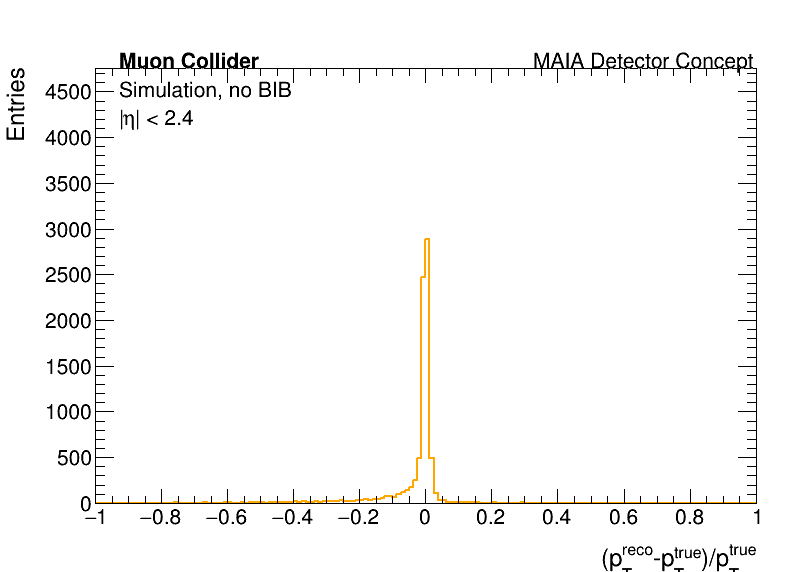
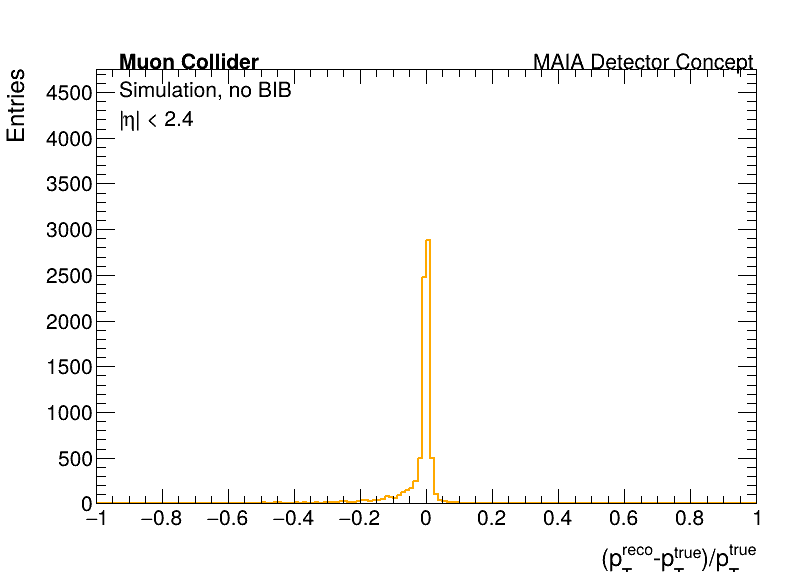
studying new electron ID

diff --git a/mucolstudies/analyze_electrons.py b/mucolstudies/analyze_electrons.py
@@ -1,0 +1,232 @@
+import os, math, glob
+import ROOT, pyLCIO
+from pyLCIO import IOIMPL
+from array import array
+
+ROOT.gROOT.SetBatch(True)
+exec(open("plotHelper.py").read())
+
+# ------------------
+# Config
+# ------------------
+B_FIELD    = 5.0
+MAX_EVENTS = -1
+MIN_E_GEV  = 10.0
+DR_CUT     = 0.2
+
+files = {
+    "v5_electronGun": ["/data/fmeloni/DataMuC_MAIA_v0/v5/reco/electronGun_pT_0_50/*.slcio"
+        ]
+}
+
+
+OUTDIR = "mucolstudies/recoPlots/v5"
+os.makedirs(OUTDIR, exist_ok=True)
+
+# ------------------
+# Utilities
+# ------------------
+def expand_file_list(patterns):
+    out = []
+    for p in patterns:
+        out += sorted(glob.glob(p))
+    return out
+
+def dphi(phi1, phi2):
+    d = phi1 - phi2
+    while d >  math.pi: d -= 2*math.pi
+    while d < -math.pi: d += 2*math.pi
+    return d
+
+def deltaR(t1, t2):
+    return math.sqrt((t1.Eta()-t2.Eta())**2 + dphi(t1.Phi(), t2.Phi())**2)
+
+def makeTrackTLV(trk, m=0.000511):
+    if trk.getOmega() == 0:
+        return None
+    pt = 3e-4 * abs(B_FIELD / trk.getOmega())
+    px = pt * math.cos(trk.getPhi())
+    py = pt * math.sin(trk.getPhi())
+    pz = pt * trk.getTanLambda()
+    p  = math.sqrt(px*px + py*py + pz*pz)
+    E  = math.sqrt(p*p + m*m)
+    tlv = ROOT.TLorentzVector()
+    tlv.SetPxPyPzE(px, py, pz, E)
+    return tlv
+
+def find_closest(tlv, cands):
+    best, best_dr = None, 1e9
+    for c in cands:
+        dr = deltaR(tlv, c)
+        if dr < best_dr:
+            best, best_dr = c, dr
+    return best if best_dr < DR_CUT else None
+
+def makeMCTLV(mcp, m=0.000511):
+    p3 = mcp.getMomentum()
+    px = float(p3[0])
+    py = float(p3[1])
+    pz = float(p3[2])
+    p  = math.sqrt(px*px + py*py + pz*pz)
+    E  = math.sqrt(p*p + m*m)
+    tlv = ROOT.TLorentzVector()
+    tlv.SetPxPyPzE(px, py, pz, E)
+    return tlv
+
+def pick_truth_electron(mcps):
+    best, best_pt = None, -1
+    for mcp in mcps:
+        if abs(int(mcp.getPDG())) != 11:
+            continue
+        tlv = makeMCTLV(mcp)
+        if tlv.Pt() > best_pt:
+            best, best_pt = tlv, tlv.Pt()
+    return best
+
+# ------------------
+# Histograms
+# ------------------
+hists = {}
+
+# pT bins capped at 50 GeV
+pt_bins = array("d", [0, 10, 20, 30, 40, 50])
+nb_pt = len(pt_bins) - 1
+
+# eta bins
+eta_bins = array("d", [-2.4, -1.6, -0.8, 0.0, 0.8, 1.6, 2.4])
+nb_eta = len(eta_bins) - 1
+
+for s in files:
+    hists[s] = {}
+
+    # Resolution / validation
+    hists[s]["E_over_p"] = ROOT.TH1F(f"{s}_E_over_p", "", 80, 0, 2.0)
+    hists[s]["pt_reco_over_true"] = ROOT.TH1F(f"{s}_pt_reco_over_true", "", 120, 0, 2.0)
+    hists[s]["pt_reco_minus_true_over_true"] = ROOT.TH1F(
+        f"{s}_pt_reco_minus_true_over_true", "", 160, -1, 1
+    )
+
+    # Efficiency bookkeeping (ETA)
+    hists[s]["truth_eta"]    = ROOT.TH1F(f"{s}_truth_eta", "", nb_eta, eta_bins)
+    hists[s]["track_eta"]    = ROOT.TH1F(f"{s}_track_eta", "", nb_eta, eta_bins)
+    hists[s]["cluster_eta"]  = ROOT.TH1F(f"{s}_cluster_eta", "", nb_eta, eta_bins)
+    hists[s]["electron_eta"] = ROOT.TH1F(f"{s}_electron_eta","", nb_eta, eta_bins)
+
+# ------------------
+# Event loop
+# ------------------
+reader = IOIMPL.LCFactory.getInstance().createLCReader()
+reader.setReadCollectionNames(["MCParticle", "SiTracks", "AllTracks", "PandoraClusters"])
+
+for s in files:
+    for fpath in expand_file_list(files[s]):
+        reader.open(fpath)
+
+        for i, event in enumerate(reader):
+            if MAX_EVENTS > 0 and i >= MAX_EVENTS:
+                break
+
+            try:
+                clusters = event.getCollection("PandoraClusters")
+                tracks   = event.getCollection("SiTracks")
+                mcps     = event.getCollection("MCParticle")
+            except:
+                continue
+
+            cluster_tlvs = []
+            for c in clusters:
+                ct = getClusterTLV(c)
+                if ct.E() > MIN_E_GEV:
+                    cluster_tlvs.append(ct)
+
+            track_tlvs = []
+            for t in tracks:
+                tt = makeTrackTLV(t)
+                if tt and tt.E() > MIN_E_GEV:
+                    track_tlvs.append(tt)
+
+            truth = pick_truth_electron(mcps)
+            if not truth:
+                continue
+
+            eta_true = truth.Eta()
+            hists[s]["truth_eta"].Fill(eta_true)
+
+            reco_trk = find_closest(truth, track_tlvs)
+            reco_cl  = find_closest(truth, cluster_tlvs)
+
+            if reco_trk:
+                hists[s]["track_eta"].Fill(eta_true)
+            if reco_cl:
+                hists[s]["cluster_eta"].Fill(eta_true)
+            if reco_trk and reco_cl:
+                hists[s]["electron_eta"].Fill(eta_true)
+                hists[s]["E_over_p"].Fill(reco_cl.E() / reco_trk.P())
+
+            if reco_trk and truth.Pt() > 0:
+                hists[s]["pt_reco_over_true"].Fill(reco_trk.Pt() / truth.Pt())
+                hists[s]["pt_reco_minus_true_over_true"].Fill(
+                    (reco_trk.Pt() - truth.Pt()) / truth.Pt()
+                )
+
+        reader.close()
+
+# ------------------
+# Build efficiencies
+# ------------------
+for s in files:
+    hists[s]["eff_track"]    = hists[s]["track_eta"].Clone(f"{s}_eff_track")
+    hists[s]["eff_cluster"]  = hists[s]["cluster_eta"].Clone(f"{s}_eff_cluster")
+    hists[s]["eff_electron"] = hists[s]["electron_eta"].Clone(f"{s}_eff_electron")
+
+    hists[s]["eff_track"].Divide(hists[s]["truth_eta"])
+    hists[s]["eff_cluster"].Divide(hists[s]["truth_eta"])
+    hists[s]["eff_electron"].Divide(hists[s]["truth_eta"])
+
+# ------------------
+# Plotting
+# ------------------
+def save_overlay(key, name, xlabel, ylabel):
+    plotHistograms(
+        {s: hists[s][key] for s in hists},
+        os.path.join(OUTDIR, name),
+        xlabel=xlabel,
+        ylabel=ylabel,
+        atltext=["Muon Collider", "Simulation, no BIB", "|#eta| < 2.4", "MAIA Detector Concept"]
+    )
+
+save_overlay("E_over_p", "E_over_p.png", "E/p", "Entries")
+save_overlay("pt_reco_over_true", "pt_reco_over_true.png", "p_{T}^{reco}/p_{T}^{true}", "Entries")
+save_overlay(
+    "pt_reco_minus_true_over_true",
+    "pt_reco_minus_true_over_true.png",
+    "(p_{T}^{reco}-p_{T}^{true})/p_{T}^{true}",
+    "Entries"
+)
+
+save_overlay("eff_track", "track_reco_eff_vs_eta.png", "#eta^{true}", "Efficiency")
+save_overlay("eff_cluster", "cluster_reco_eff_vs_eta.png", "#eta^{true}", "Efficiency")
+save_overlay("eff_electron", "electron_reco_eff_vs_eta.png", "#eta^{true}", "Efficiency")
+
+# ------------------
+# Print efficiency stats
+# ------------------
+for s in files:
+    n_truth    = hists[s]["truth_eta"].Integral()
+    n_track    = hists[s]["track_eta"].Integral()
+    n_cluster  = hists[s]["cluster_eta"].Integral()
+    n_electron = hists[s]["electron_eta"].Integral()
+
+    print("\n===================================")
+    print(f"Total truth electrons: {int(n_truth)}")
+
+    if n_truth > 0:
+        print(f"Track reconstruction efficiency:    {100.0 * n_track / n_truth:.2f}%")
+        print(f"Cluster reconstruction efficiency:  {100.0 * n_cluster / n_truth:.2f}%")
+        print(f"Electron reconstruction efficiency: {100.0 * n_electron / n_truth:.2f}%")
+    else:
+        print("No truth electrons found.")
+    print("===================================")
+
+print(f"[done] plots in {OUTDIR}")
+

diff --git a/SteeringMacros/k4Reco/steer_reco.py b/SteeringMacros/k4Reco/steer_reco.py
@@ -30,7 +30,7 @@ parseConstants(CONSTANTS)
 
 read = LcioEvent()
 read.OutputLevel = INFO
-read.Files = ["/scratch/jwatts/mucol/data/electronGun_pT_0_50_sim_0.slcio"]
+read.Files = ["/scratch/jwatts/mucol/data/electronGun_pT_0_50_sim_3.slcio"]
 
 algList.append(read)
 EventNumber = MarlinProcessorWrapper("EventNumber")
@@ -44,7 +44,10 @@ MyAIDAProcessor = MarlinProcessorWrapper("MyAIDAProcessor")
 MyAIDAProcessor.OutputLevel = INFO
 MyAIDAProcessor.ProcessorType = "AIDAProcessor"
 MyAIDAProcessor.Parameters = {
-    "LCIOOutputFile": ["/scratch/jwatts/mucol/data/reco/"+the_args.TypeEvent+"/"+the_args.TypeEvent+"_reco_100.slcio"],
+    "LCIOOutputFile": [
+        "/scratch/jwatts/mucol/data/reco/electronGun_pT_0_50/"
+        "electronGun_pT_0_50_reco_3.root"
+    ],
     "FileType": ["root"]
 }
 
@@ -57,7 +60,9 @@ if not the_args.enableBIB:
         "DropCollectionNames": [],
         "FullSubsetCollections": [],
         "KeepCollectionNames": ["MCParticle_SiTracks_Refitted"],
-        "LCIOOutputFile": ["/scratch/jwatts/mucol/data/reco/"+the_args.TypeEvent+"/"+the_args.TypeEvent+"_reco_"+the_args.InFileName+".slcio"],
+        "LCIOOutputFile": [
+            "/scratch/jwatts/mucol/data/reco/electronGun_pT_0_50/"
+            "electronGun_pT_0_50_reco_3.slcio"],
         "LCIOWriteMode": ["WRITE_NEW"]
     }
 else:

diff --git a/SteeringMacros/Sim/sim_steer_GEN_CONDOR.py b/SteeringMacros/Sim/sim_steer_GEN_CONDOR.py
@@ -21,7 +21,7 @@ SIM.hepmc3.useHepMC3 = True
 # Macro file to execute for runType 'run' or 'vis'
 SIM.macroFile = []
 # number of events to simulate, used in batch mode
-SIM.numberOfEvents = 100
+SIM.numberOfEvents = 1000
 # Outputfile from the simulation,only lcio output is supported
 # SIM.outputFile = "out/digi/sim_mod1_mumu2H2bb750.slcio"
 SIM.outputFile = "output_sim.slcio"
